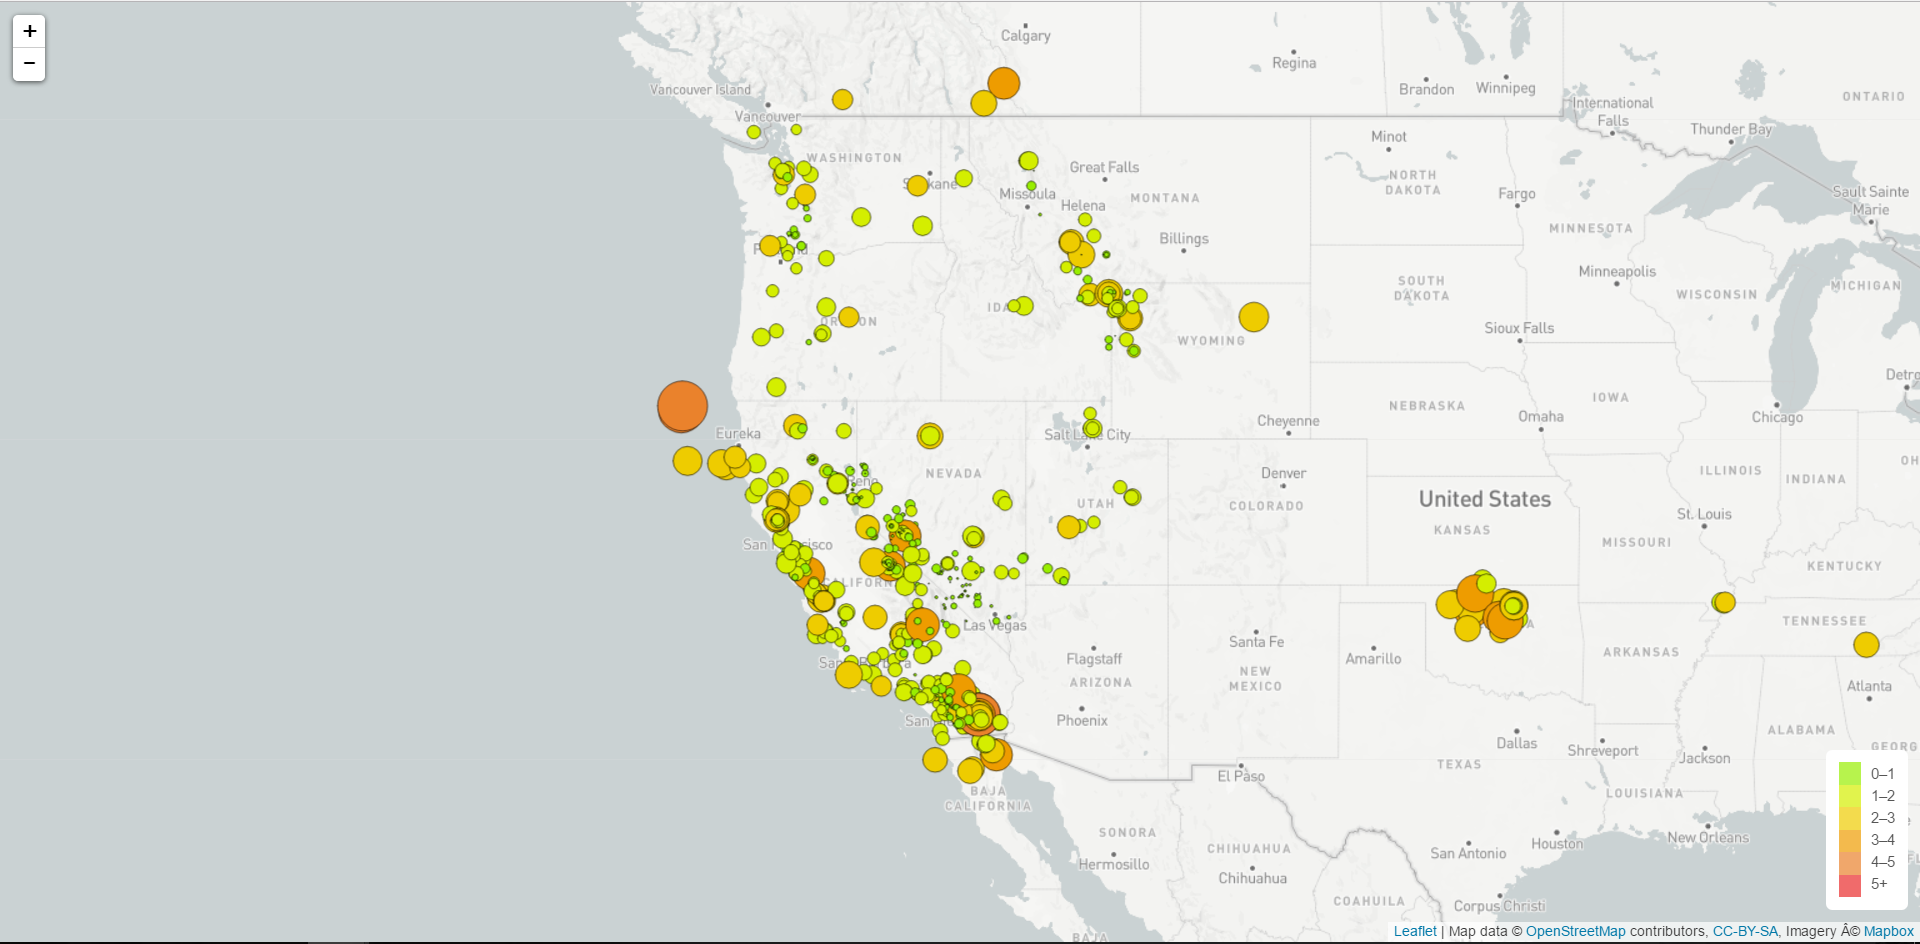
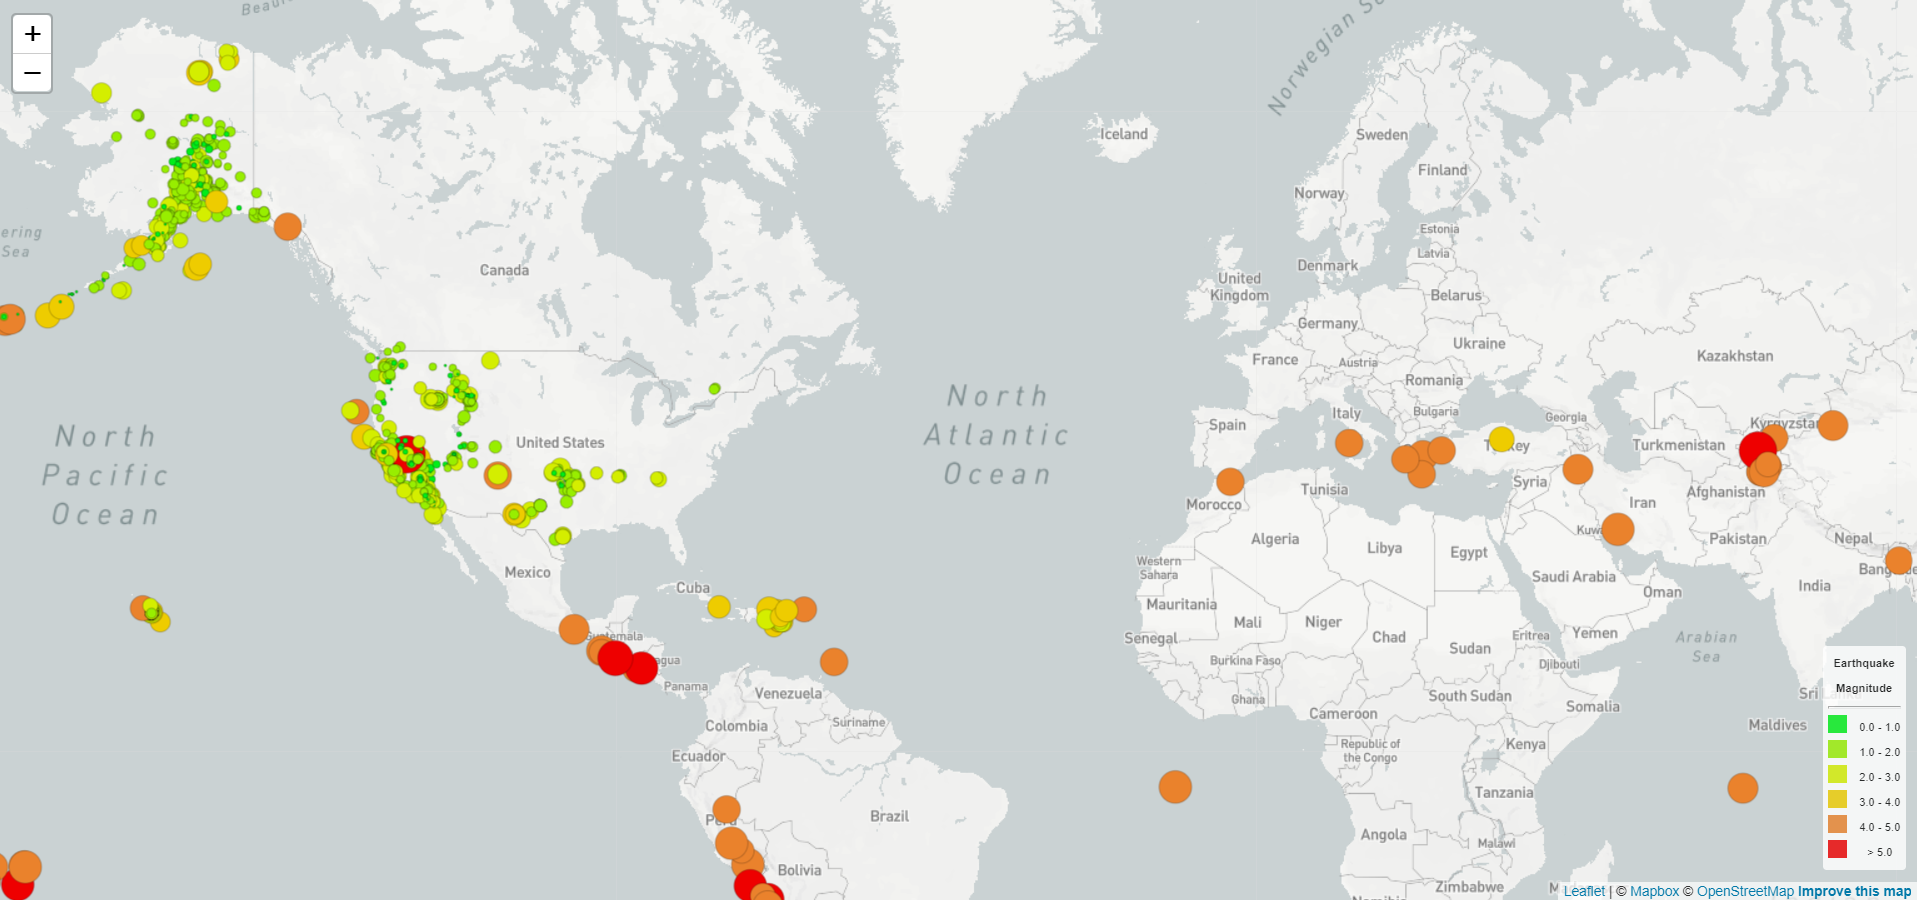
Updated ReadMe Push

diff --git a/Leaflet Challenge/Leaflet-Step-1/static/js/logic.js b/Leaflet Challenge/Leaflet-Step-1/static/js/logic.js
@@ -37,11 +37,13 @@ d3.json(quakesurl).then(function(data) {
         case magnitude > 3:
             return "#eecc00";
         case magnitude > 2:
-            return "#eecc00";
-        case magnitude > 1:
             return "#d4ee00";
-        default:
+        case magnitude > 1:
             return "#98ee00";
+        case magnitude < 1:
+            return "#00ee18";
+        default:
+            return "#00ee18";
         }
     }
 
@@ -75,8 +77,8 @@ d3.json(quakesurl).then(function(data) {
     legend.onAdd = function() {  
         var div = L.DomUtil.create('div', 'legend');
         labels = ['<strong>Earthquake<br>Magnitude</strong>'],
-        categories = ['< 1.0', '1.0 - 2.0', '2.0 - 3.0', '3.0 - 4.0', '4.0 - 5.0',  '> 5.0'],
-        colors = ["#98ee00", "#d4ee00", "#eecc00", "#eecc00", "#ea822c", "#Ee0000"]
+        categories = ['0.0 - 1.0', '1.0 - 2.0', '2.0 - 3.0', '3.0 - 4.0', '4.0 - 5.0',  '> 5.0'],
+        colors = ["#00ee18", "#98ee00", "#d4ee00", "#eecc00", "#ea822c", "#Ee0000"]
 
         for (var i = 0; i < categories.length; i++) {
             div.innerHTML += labels[0]  + '<hr>'

diff --git a/README.md b/README.md
@@ -2,7 +2,7 @@
 
 ## Background
 
-![1-Logo](Images/1-Logo.png)
+![1-Logo](Leaflet Challenge/Leaflet-Step-1/Images/1-Logo.png)
 
 Welcome to the United States Geological Survey, or USGS for short! The USGS is responsible for providing scientific data about natural hazards, the health of our ecosystems and environment; and the impacts of climate and land-use change. Their scientists develop new methods and tools to supply timely, relevant, and useful information about the Earth and its processes. As a new hire, you will be helping them out with an exciting new project!
 
@@ -24,7 +24,7 @@ The USGS is interested in building a new set of tools that will allow them visua
 
 ### Level 1: Basic Visualization
 
-![2-BasicMap](Images/2-BasicMap.png)
+![2-BasicMap](Leaflet Challenge/Leaflet-Step-1/Images/2-BasicMap.png)
 
 Your first task is to visualize an earthquake data set.
 
@@ -52,7 +52,7 @@ Your first task is to visualize an earthquake data set.
 
 ### Level 2: More Data (Optional)
 
-![5-Advanced](Images/5-Advanced.png)
+![5-Advanced](Leaflet Challenge/Leaflet-Step-1/Images/5-Advanced.png)
 
 The USGS wants you to plot a second data set on your map to illustrate the relationship between tectonic plates and seismic activity. You will need to pull in a second data set and visualize it along side your original set of data. Data on tectonic plates can be found at <https://github.com/fraxen/tectonicplates>.
 
